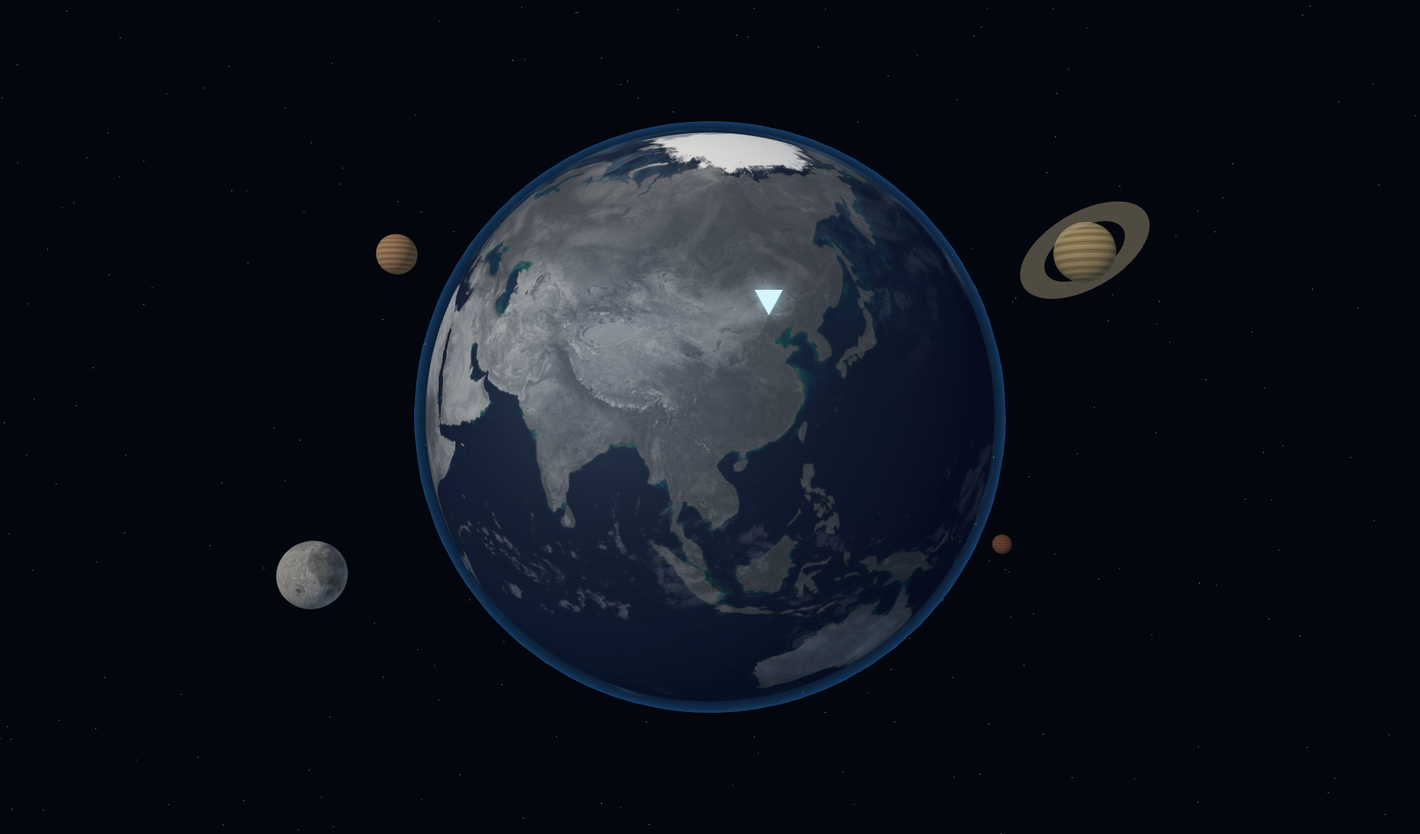
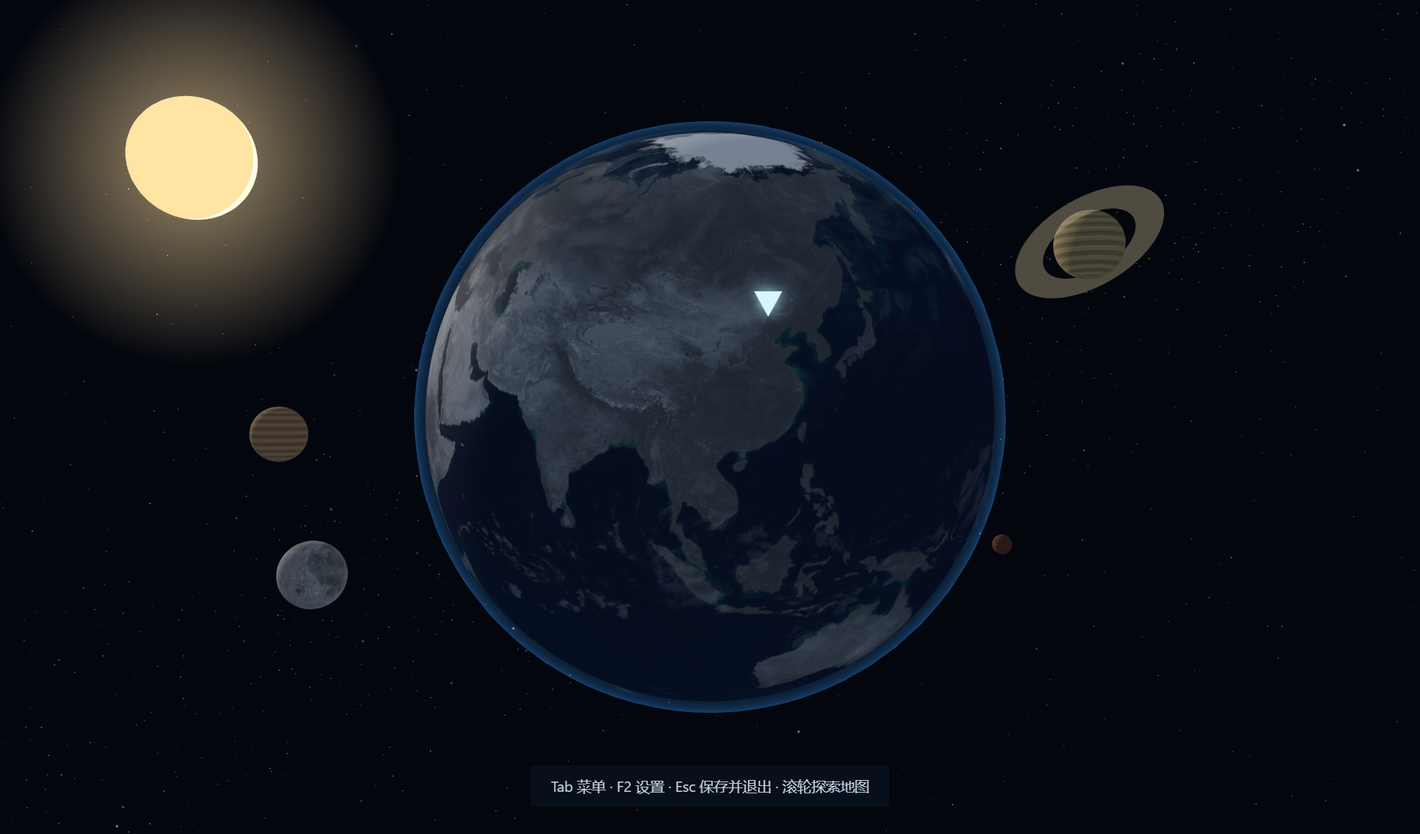
Add planetary navigation and unrestricted geographic wheel exploration

diff --git a/globe.js b/globe.js
@@ -2,24 +2,42 @@ import * as THREE from './vendor/three.module.js';
 const $=id=>document.getElementById(id),geo=window.ATLAS_GEO.provinces,ui=window.earthUI;
 const reduced=matchMedia('(prefers-reduced-motion: reduce)');
 let renderer,scene,camera,earthGroup,earth,clouds,moon,material,baseImage,land,paused=false,active=true,flight=null,drag=null,units={},next=1,last=0,progressKey='';
+const bodies=[],look=new THREE.Vector3();let travel=null,focused='earth',starMaterial,queuedFlight=null,zoomGoal=null,zoomPlace=null,openingMap=false;
+const titles={earth:'地球',sun:'太阳',moon:'月球',mars:'火星',jupiter:'木星 · 探索菜单',saturn:'土星 · 设置'};
+function glow(color,size){const c=document.createElement('canvas');c.width=c.height=128;const x=c.getContext('2d'),g=x.createRadialGradient(64,64,0,64,64,64);g.addColorStop(0,'#fff');g.addColorStop(.08,color);g.addColorStop(.3,color+'70');g.addColorStop(1,color+'00');x.fillStyle=g;x.fillRect(0,0,128,128);const s=new THREE.Sprite(new THREE.SpriteMaterial({map:new THREE.CanvasTexture(c),transparent:true,depthWrite:false,blending:THREE.AdditiveBlending}));s.scale.setScalar(size);return s;}
+function register(mesh,id,size){mesh.userData={id,size};bodies.push(mesh);return mesh;}
+function panel(id){$('spaceMenu').hidden=id!=='jupiter';$('settingsPanel').hidden=id!=='saturn';$('planetInfo').hidden=!['sun','moon','mars'].includes(id);if(!$('planetInfo').hidden){$('planetTitle').textContent=titles[id];$('planetDescription').textContent={sun:'太阳是恒星，是地球光照的来源。这里为了同屏观看缩小了距离与尺寸，并非真实比例。',moon:'月球是地球的天然卫星。返回地球，继续探索你的学习地图。',mars:'火星是一颗岩石行星。这里暂未安排课程，后续再来拓展。'}[id];}}
+async function focusPlanet(id){if(!camera)return;queuedFlight=null;zoomGoal=null;await window.flushAtlas();if(document.body.dataset.view!=='space')await ui.view('spaceView');$('infoDialog').close();flight=null;document.body.dataset.flying='false';$('skipFlight').hidden=true;$('cloudVeil').style.opacity=0;panel(null);const b=id==='earth'?earth:bodies.find(b=>b.userData.id===id);if(!b)return;focused=id;document.body.dataset.planet=id;const destination=id==='earth'?new THREE.Vector3():b.position.clone();const distance=id==='earth'?8.3:b.userData.size*5.8;travel={start:performance.now(),from:camera.position.clone(),to:destination.clone().add(new THREE.Vector3(0,0,distance)),lookFrom:look.clone(),lookTo:destination,id};if(reduced.matches){camera.position.copy(travel.to);look.copy(destination);camera.lookAt(look);travel=null;panel(id);}}
+window.addEventListener('atlas-planet',e=>focusPlanet(e.detail).catch(e=>ui.notify(e.message)));
 const radius=2,ray=new THREE.Raycaster(),pointer=new THREE.Vector2(),target=new THREE.Vector3(0,0,1);
 const surface=([lon,lat],r=radius)=>{const a=lat*Math.PI/180,b=lon*Math.PI/180;return new THREE.Vector3(r*Math.cos(a)*Math.cos(b),r*Math.sin(a),-r*Math.cos(a)*Math.sin(b));};
 const alignment=([lon,lat])=>new THREE.Quaternion().setFromEuler(new THREE.Euler(lat*Math.PI/180,(-90-lon)*Math.PI/180,0,'XYZ'));
 function outline(ctx,polys,w,h){ctx.beginPath();for(const p of polys)for(const ring of p){ring.forEach(([lon,lat],i)=>{const x=(lon+180)/360*w,y=(90-lat)/180*h;i?ctx.lineTo(x,y):ctx.moveTo(x,y);});ctx.closePath();}}
 function colorTexture(){if(!baseImage||!land||!material)return;const key=Object.entries(units).filter(([,u])=>u.status==='done').map(([id])=>id).join(',');if(key===progressKey&&material.map)return;progressKey=key;const c=document.createElement('canvas');c.width=2048;c.height=1024;const ctx=c.getContext('2d');ctx.drawImage(baseImage,0,0,c.width,c.height);ctx.save();for(const f of land.features){const polys=f.geometry.type==='Polygon'?[f.geometry.coordinates]:f.geometry.coordinates;outline(ctx,polys,c.width,c.height);ctx.save();ctx.clip('evenodd');ctx.filter='grayscale(1) brightness(0.90)';ctx.drawImage(baseImage,0,0,c.width,c.height);ctx.filter='none';ctx.fillStyle='rgba(112,126,144,.48)';ctx.fillRect(0,0,c.width,c.height);ctx.restore();}ctx.restore();for(const p of geo){if(units[p.id]?.status!=='done')continue;ctx.save();outline(ctx,p.polygons,c.width,c.height);ctx.clip('evenodd');ctx.drawImage(baseImage,0,0,c.width,c.height);ctx.restore();}const texture=new THREE.CanvasTexture(c);texture.colorSpace=THREE.SRGBColorSpace;texture.anisotropy=Math.min(8,renderer.capabilities.getMaxAnisotropy());material.map?.dispose();material.map=texture;material.needsUpdate=true;}
-function starField(){let seed=731;const rand=()=>{seed=(seed*1664525+1013904223)>>>0;return seed/4294967296;};const points=[],colors=[];for(let i=0;i<3800;i++){const z=rand()*2-1,a=rand()*Math.PI*2,r=70+rand()*40,s=Math.sqrt(1-z*z);points.push(r*s*Math.cos(a),r*z,r*s*Math.sin(a));const b=.35+rand()*.65;colors.push(b,b*(.87+rand()*.13),b*(.8+rand()*.2));}const g=new THREE.BufferGeometry();g.setAttribute('position',new THREE.Float32BufferAttribute(points,3));g.setAttribute('color',new THREE.Float32BufferAttribute(colors,3));scene.add(new THREE.Points(g,new THREE.PointsMaterial({size:.105,vertexColors:true,sizeAttenuation:true,transparent:true,opacity:.9})));}
+function starField(){let seed=731;const rand=()=>{seed=(seed*1664525+1013904223)>>>0;return seed/4294967296;};const points=[],colors=[],sizes=[],phases=[];for(let i=0;i<11000;i++){const a=rand()*Math.PI*2,z=i<6500?rand()*2-1:(rand()+rand()+rand()-1.5)*.19,r=75+rand()*35,s=Math.sqrt(1-z*z);const v=new THREE.Vector3(r*s*Math.cos(a),r*z,r*s*Math.sin(a));v.applyAxisAngle(new THREE.Vector3(0,0,1),.48);points.push(v.x,v.y,v.z);const b=.3+rand()*.7;colors.push(b,b*(.8+rand()*.2),b*(.75+rand()*.25));sizes.push(rand()<.025?5:1.3+rand()*1.6);phases.push(rand()*6.28);}const g=new THREE.BufferGeometry();g.setAttribute('position',new THREE.Float32BufferAttribute(points,3));g.setAttribute('color',new THREE.Float32BufferAttribute(colors,3));g.setAttribute('size',new THREE.Float32BufferAttribute(sizes,1));g.setAttribute('phase',new THREE.Float32BufferAttribute(phases,1));starMaterial=new THREE.ShaderMaterial({uniforms:{time:{value:0}},transparent:true,depthWrite:false,blending:THREE.AdditiveBlending,vertexColors:true,vertexShader:'attribute float size; attribute float phase; varying vec3 tint; varying float pulse; uniform float time; void main(){tint=color; pulse=.8+.2*sin(time*.5+phase); gl_Position=projectionMatrix*modelViewMatrix*vec4(position,1.);gl_PointSize=size;}',fragmentShader:'varying vec3 tint; varying float pulse; void main(){float d=length(gl_PointCoord-.5)*2.;float a=pow(max(0.,1.-d),1.2);gl_FragColor=vec4(tint,a*pulse);}'});scene.add(new THREE.Points(g,starMaterial));}
 function planetTexture(type){const c=document.createElement('canvas');c.width=512;c.height=256;const ctx=c.getContext('2d');for(let y=0;y<256;y++){const v=Math.sin(y*.27)+.5*Math.sin(y*.85);ctx.fillStyle=type==='mars'?`hsl(15,35%,${29+v*5}%)`:`hsl(${type==='saturn'?40:28},${type==='saturn'?24:29}%,${48+v*8}%)`;ctx.fillRect(0,y,512,1);}const t=new THREE.CanvasTexture(c);t.colorSpace=THREE.SRGBColorSpace;return t;}
-function addPlanet(type,size,pos){const m=new THREE.Mesh(new THREE.SphereGeometry(size,40,24),new THREE.MeshStandardMaterial({map:planetTexture(type),roughness:1}));m.position.set(...pos);scene.add(m);if(type==='saturn'){const ring=new THREE.Mesh(new THREE.RingGeometry(size*1.4,size*2.25,96),new THREE.MeshBasicMaterial({color:0xa99c7e,transparent:true,opacity:.46,side:THREE.DoubleSide}));ring.rotation.set(.95,.25,-.4);m.add(ring);}return m;}
+function addPlanet(type,size,pos){const m=register(new THREE.Mesh(new THREE.SphereGeometry(size,48,32),new THREE.MeshStandardMaterial({map:planetTexture(type),roughness:1})),type,size);m.position.set(...pos);scene.add(m);if(type==='saturn'){const ring=new THREE.Mesh(new THREE.RingGeometry(size*1.4,size*2.25,96),new THREE.MeshBasicMaterial({color:0xa99c7e,transparent:true,opacity:.46,side:THREE.DoubleSide}));ring.rotation.set(.95,.25,-.4);m.add(ring);}return m;}
 function atmosphere(){const m=new THREE.ShaderMaterial({transparent:true,side:THREE.BackSide,blending:THREE.AdditiveBlending,depthWrite:false,vertexShader:'varying vec3 n; varying vec3 v; void main(){ vec4 p=modelViewMatrix*vec4(position,1.0); n=normalize(normalMatrix*normal); v=normalize(-p.xyz); gl_Position=projectionMatrix*p; }',fragmentShader:'varying vec3 n; varying vec3 v; void main(){float rim=pow(max(0.0,1.0-abs(dot(n,v))),3.4);gl_FragColor=vec4(0.15,0.44,0.72,rim*0.62); }'});earthGroup.add(new THREE.Mesh(new THREE.SphereGeometry(2.075,64,48),m));}
 function pointInRing(x,y,ring){let inside=false;for(let i=0,j=ring.length-1;i<ring.length;j=i++){const [xi,yi]=ring[i],[xj,yj]=ring[j];if(((yi>y)!==(yj>y))&&x<(xj-xi)*(y-yi)/(yj-yi)+xi)inside=!inside;}return inside;}
-function clickWorld(e){if(flight)return;const bounds=renderer.domElement.getBoundingClientRect();pointer.set((e.clientX-bounds.left)/bounds.width*2-1,-(e.clientY-bounds.top)/bounds.height*2+1);ray.setFromCamera(pointer,camera);const hit=ray.intersectObject(earth)[0];if(!hit)return;const local=earthGroup.worldToLocal(hit.point.clone()).normalize();const lon=Math.atan2(-local.z,local.x)*180/Math.PI,lat=Math.asin(local.y)*180/Math.PI;const province=geo.find(p=>p.polygons.some(poly=>pointInRing(lon,lat,poly[0])));if(province)startFlight(province.id);else ui.notify('这片区域尚未开发，后续再来拓展。');}
-function setFlightLabel(stage,p){const labels=['地球','穿过云层','亚洲','中国',p.name];$('flightPlace').textContent=labels[stage];$('flightTrail').textContent=['宇宙 / 每日任务','地球 / 大气层','地球 / 亚洲','亚洲 / 中国','亚洲 / 中国 / 单元 '+p.id][stage];document.body.dataset.flightStage=String(stage);}
-function startFlight(id){if(flight)return;if(id>34){ui.notify('中国地图之后的8个单元已预留，周边地图后续拓展。');return;}const p=geo[id-1];$('spaceMenu').hidden=true;if(reduced.matches){ui.showProvince(id).catch(ui.notify);return;}flight={id,start:performance.now(),q:earthGroup.quaternion.clone(),z:camera.position.z};document.body.dataset.flying='true';$('flightLabel').hidden=false;$('skipFlight').hidden=false;$('taskPin').hidden=true;setFlightLabel(0,p);}
+function pick(e){const bounds=renderer.domElement.getBoundingClientRect();pointer.set((e.clientX-bounds.left)/bounds.width*2-1,-(e.clientY-bounds.top)/bounds.height*2+1);ray.setFromCamera(pointer,camera);return ray.intersectObjects([earth,...bodies],false)[0];}
+function provinceAt(hit){if(!hit||hit.object!==earth)return null;const local=earthGroup.worldToLocal(hit.point.clone()).normalize(),lon=Math.atan2(-local.z,local.x)*180/Math.PI,lat=Math.asin(local.y)*180/Math.PI;return geo.find(p=>p.polygons.some(poly=>pointInRing(lon,lat,poly[0])));}
+function clickWorld(e){if(flight||travel)return;const hit=pick(e);if(!hit)return;if(hit.object!==earth){hit.object.scale.setScalar(1.08);setTimeout(()=>hit.object.scale.setScalar(1),180);focusPlanet(hit.object.userData.id).catch(e=>ui.notify(e.message));return;}if(focused!=='earth'){focusPlanet('earth');return;}const v=earthGroup.worldToLocal(hit.point.clone()).normalize();window.atlasExplorer.open(Math.atan2(-v.z,v.x)*180/Math.PI,Math.asin(v.y)*180/Math.PI).catch(e=>ui.notify(e.message));}
+function setFlightLabel(stage){document.body.dataset.flightStage=String(stage);}
+function startFlight(id){if(flight||travel)return;if(id>34){ui.notify('周边地图后续拓展。');return;}panel(null);if(reduced.matches){ui.showProvince(id).catch(ui.notify);return;}focused='earth';flight={id,start:performance.now(),q:earthGroup.quaternion.clone(),z:camera.position.z};look.set(0,0,0);camera.position.x=camera.position.y=0;camera.lookAt(look);document.body.dataset.flying='true';$('flightLabel').hidden=true;$('skipFlight').hidden=false;$('taskPin').hidden=true;}
 function finishFlight(){if(!flight)return;const id=flight.id;flight=null;document.body.dataset.flying='false';$('cloudVeil').style.opacity=0;$('flightLabel').hidden=true;$('skipFlight').hidden=true;ui.showProvince(id).catch(e=>ui.notify(e.message));}
-function animate(now){requestAnimationFrame(animate);if(!active||document.hidden)return;const dt=Math.min(.05,(now-last)/1000||0);last=now;if(flight){const elapsed=(now-flight.start)/1450,stage=Math.min(4,Math.floor(elapsed)),fraction=elapsed-stage,t=fraction*fraction*(3-2*fraction),p=geo[flight.id-1];const distances=[flight.z,5.0,3.9,3.0,2.5,2.16];camera.position.z=THREE.MathUtils.lerp(distances[stage],distances[stage+1],t);const places=[[105,30],[105,30],[100,35],[104,35],p.center];earthGroup.quaternion.slerpQuaternions(stage===0?flight.q:alignment(places[stage-1]),alignment(places[stage]),t);setFlightLabel(stage,p);$('cloudVeil').style.opacity=stage===1?String(Math.sin(fraction*Math.PI)*.95):'0';clouds.material.opacity=stage>=2?.10:.32;if(elapsed>=5)finishFlight();}else if(!paused&&!drag&&!reduced.matches){earthGroup.rotateOnWorldAxis(new THREE.Vector3(0,1,0),dt*.028);clouds.rotation.y+=dt*.006;}const id=Math.min(next,34),p=geo[id-1],world=surface(p.center,2.05).applyQuaternion(earthGroup.quaternion);const projected=world.clone().project(camera);const facing=world.clone().normalize().dot(camera.position.clone().sub(world).normalize())>.1;$('taskPin').hidden=!!flight||!facing||next>34;if(!$('taskPin').hidden){$('taskPin').style.left=(projected.x*.5+.5)*innerWidth+'px';$('taskPin').style.top=(-projected.y*.5+.5)*innerHeight+'px';}renderer.render(scene,camera);}
+function animate(now){requestAnimationFrame(animate);if(!active||document.hidden)return;const dt=Math.min(.05,(now-last)/1000||0);last=now;if(starMaterial)starMaterial.uniforms.time.value=reduced.matches?0:now/1000;
+ if(travel){const t=Math.min(1,(now-travel.start)/1400),s=t*t*(3-2*t);camera.position.lerpVectors(travel.from,travel.to,s);look.lerpVectors(travel.lookFrom,travel.lookTo,s);camera.lookAt(look);if(t===1){const id=travel.id;travel=null;panel(id);if(queuedFlight){const unit=queuedFlight;queuedFlight=null;startFlight(unit);}}}
+ else if(flight){const t=Math.min(1,(now-flight.start)/6400),s=t*t*(3-2*t),p=geo[flight.id-1];camera.position.z=flight.z*Math.pow(2.16/flight.z,s);const broad=alignment([104,34]),close=alignment(p.center);const q=broad.clone().slerp(close,s*s);earthGroup.quaternion.slerpQuaternions(flight.q,q,Math.min(1,s*1.8));setFlightLabel(Math.min(4,Math.floor(t*5)));$('cloudVeil').style.opacity=String(Math.exp(-Math.pow((t-.73)/.08,2))*.86);clouds.material.opacity=.32*(1-s)+.08*s;if(t===1)finishFlight();}
+ else if(focused==='earth'&&zoomGoal===null&&!paused&&!drag&&!reduced.matches){earthGroup.rotateOnWorldAxis(new THREE.Vector3(0,1,0),dt*.028);clouds.rotation.y+=dt*.006;}
+ if(!flight&&!travel&&zoomGoal!==null){camera.position.z=THREE.MathUtils.lerp(camera.position.z,zoomGoal,reduced.matches?1:1-Math.exp(-dt*13));if(Math.abs(camera.position.z-zoomGoal)<.01)camera.position.z=zoomGoal;document.body.dataset.zoomLevel=camera.position.z>6?'universe':camera.position.z>3.7?'earth':'asia';if(camera.position.z<=2.85&&zoomGoal<2.85&&!openingMap){openingMap=true;zoomGoal=null;const place=zoomPlace||geo[Math.min(next,34)-1].center;window.atlasExplorer.open(...place).catch(e=>ui.notify(e.message)).finally(()=>openingMap=false);}}
+ const p=geo[Math.min(next,34)-1],world=surface(p.center,2.05).applyQuaternion(earthGroup.quaternion),projected=world.clone().project(camera),facing=world.clone().normalize().dot(camera.position.clone().sub(world).normalize())>.1;
+ $('taskPin').hidden=!!flight||!!travel||focused!=='earth'||!facing||next>34||camera.position.z<4;
+ if(!$('taskPin').hidden){$('taskPin').style.left=(projected.x*.5+.5)*innerWidth+'px';$('taskPin').style.top=(-projected.y*.5+.5)*innerHeight+'px';}
+ renderer.render(scene,camera);}
 function resize(){renderer.setSize(innerWidth,innerHeight);camera.aspect=innerWidth/innerHeight;camera.updateProjectionMatrix();}
-async function init(){scene=new THREE.Scene();camera=new THREE.PerspectiveCamera(40,innerWidth/innerHeight,.01,200);camera.position.set(0,0,8.3);renderer=new THREE.WebGLRenderer({antialias:true,alpha:false,powerPreference:'low-power'});renderer.setPixelRatio(Math.min(devicePixelRatio,1.6));renderer.setClearColor(0x03060d);$('universe').append(renderer.domElement);resize();scene.add(new THREE.AmbientLight(0xb7c9e2,1.2));const sun=new THREE.DirectionalLight(0xfff4df,2.1);sun.position.set(-6,4,8);scene.add(sun);starField();earthGroup=new THREE.Group();scene.add(earthGroup);earthGroup.quaternion.copy(alignment([105,27]));material=new THREE.MeshPhongMaterial({color:0xffffff,shininess:10,specular:0x243246});earth=new THREE.Mesh(new THREE.SphereGeometry(2,128,80),material);earthGroup.add(earth);const loader=new THREE.TextureLoader();const [day,cloud,moonTexture,landData]=await Promise.all([loader.loadAsync('assets/earth.jpg'),loader.loadAsync('assets/clouds.png'),loader.loadAsync('assets/moon.jpg'),fetch('assets/land.geojson').then(r=>r.json())]);baseImage=day.image;land=landData;colorTexture();day.dispose();cloud.colorSpace=THREE.SRGBColorSpace;clouds=new THREE.Mesh(new THREE.SphereGeometry(2.025,96,64),new THREE.MeshPhongMaterial({map:cloud,transparent:true,opacity:.32,depthWrite:false}));earthGroup.add(clouds);atmosphere();moonTexture.colorSpace=THREE.SRGBColorSpace;moon=new THREE.Mesh(new THREE.SphereGeometry(.29,40,24),new THREE.MeshStandardMaterial({map:moonTexture,roughness:1}));moon.position.set(-3.4,-1.35,-1.5);scene.add(moon);addPlanet('saturn',.40,[5,2.2,-7]);addPlanet('jupiter',.32,[-5,2.6,-10]);addPlanet('mars',.13,[3.9,-1.7,-7]);$('sceneLoading').hidden=true;window.__earthReady=true;window.addEventListener('resize',resize);renderer.domElement.onpointerdown=e=>{if(flight)return;drag={x:e.clientX,y:e.clientY,lastX:e.clientX,lastY:e.clientY};renderer.domElement.setPointerCapture(e.pointerId);};renderer.domElement.onpointermove=e=>{if(!drag)return;earthGroup.rotateOnWorldAxis(new THREE.Vector3(0,1,0),(e.clientX-drag.lastX)*.005);earthGroup.rotateOnWorldAxis(new THREE.Vector3(1,0,0),(e.clientY-drag.lastY)*.005);drag.lastX=e.clientX;drag.lastY=e.clientY;};renderer.domElement.onpointerup=e=>{if(!drag)return;const moved=Math.hypot(e.clientX-drag.x,e.clientY-drag.y);drag=null;if(moved<5)clickWorld(e);};renderer.domElement.onpointercancel=()=>drag=null;renderer.domElement.addEventListener('wheel',e=>{e.preventDefault();if(!flight)camera.position.z=Math.max(4.4,Math.min(12,camera.position.z+e.deltaY*.004));},{passive:false});requestAnimationFrame(animate);ui.syncWorld();}
+async function init(){scene=new THREE.Scene();camera=new THREE.PerspectiveCamera(40,innerWidth/innerHeight,.01,200);camera.position.set(0,0,8.3);renderer=new THREE.WebGLRenderer({antialias:true,alpha:false,powerPreference:'low-power'});renderer.setPixelRatio(Math.min(devicePixelRatio,1.6));renderer.setClearColor(0x03060d);$('universe').append(renderer.domElement);resize();scene.add(new THREE.AmbientLight(0xb7c9e2,1.2));const sun=new THREE.DirectionalLight(0xfff4df,2.1);sun.position.set(-6,3,-5);scene.add(sun);const sunBody=register(new THREE.Mesh(new THREE.SphereGeometry(.7,64,48),new THREE.MeshBasicMaterial({color:0xffe4a3})),'sun',.7);sunBody.position.copy(sun.position);sunBody.add(glow('#ffb34f',4.8));scene.add(sunBody);starField();earthGroup=new THREE.Group();scene.add(earthGroup);earthGroup.quaternion.copy(alignment([105,27]));material=new THREE.MeshPhongMaterial({color:0xffffff,shininess:10,specular:0x243246});earth=new THREE.Mesh(new THREE.SphereGeometry(2,128,80),material);earthGroup.add(earth);const loader=new THREE.TextureLoader();const [day,cloud,moonTexture,landData]=await Promise.all([loader.loadAsync('assets/earth.jpg'),loader.loadAsync('assets/clouds.png'),loader.loadAsync('assets/moon.jpg'),fetch('assets/land.geojson').then(r=>r.json())]);baseImage=day.image;land=landData;colorTexture();day.dispose();cloud.colorSpace=THREE.SRGBColorSpace;clouds=new THREE.Mesh(new THREE.SphereGeometry(2.025,96,64),new THREE.MeshPhongMaterial({map:cloud,transparent:true,opacity:.32,depthWrite:false}));earthGroup.add(clouds);atmosphere();moonTexture.colorSpace=THREE.SRGBColorSpace;moon=new THREE.Mesh(new THREE.SphereGeometry(.29,40,24),new THREE.MeshStandardMaterial({map:moonTexture,roughness:1}));moon.position.set(-3.4,-1.35,-1.5);scene.add(moon);register(moon,'moon',.29);addPlanet('saturn',.40,[4.4,2,-5]);addPlanet('jupiter',.32,[-5,-.2,-5]);addPlanet('mars',.13,[3.9,-1.7,-7]);$('sceneLoading').hidden=true;window.__earthReady=true;window.addEventListener('resize',resize);renderer.domElement.onpointerdown=e=>{if(flight||travel)return;drag={x:e.clientX,y:e.clientY,lastX:e.clientX,lastY:e.clientY};renderer.domElement.setPointerCapture(e.pointerId);};renderer.domElement.onpointermove=e=>{if(!drag){const hit=pick(e);renderer.domElement.style.cursor=hit?'pointer':'grab';$('planetHover').hidden=!hit||hit.object===earth;if(hit&&hit.object!==earth){$('planetHover').textContent=titles[hit.object.userData.id];$('planetHover').style.left=e.clientX+16+'px';$('planetHover').style.top=e.clientY+16+'px';}return;}if(focused!=='earth'||travel)return;earthGroup.rotateOnWorldAxis(new THREE.Vector3(0,1,0),(e.clientX-drag.lastX)*.005);earthGroup.rotateOnWorldAxis(new THREE.Vector3(1,0,0),(e.clientY-drag.lastY)*.005);drag.lastX=e.clientX;drag.lastY=e.clientY;};renderer.domElement.onpointerup=e=>{if(!drag)return;const moved=Math.hypot(e.clientX-drag.x,e.clientY-drag.y);drag=null;if(moved<5)clickWorld(e);};renderer.domElement.onpointercancel=()=>drag=null;$('spaceView').addEventListener('wheel',e=>{if(e.target.closest('.planet-panel,#spaceMenu,#sceneError'))return;e.preventDefault();if(flight||travel||openingMap)return;if(focused!=='earth'){if(e.deltaY>0)focusPlanet('earth');return;}const hit=pick(e);if(hit?.object===earth){const v=earthGroup.worldToLocal(hit.point.clone()).normalize();zoomPlace=[Math.atan2(-v.z,v.x)*180/Math.PI,Math.asin(v.y)*180/Math.PI];}const delta=e.deltaY*(e.deltaMode===1?16:e.deltaMode===2?innerHeight:1);zoomGoal=Math.max(2.3,Math.min(14,(zoomGoal??camera.position.z)*Math.exp(delta*.0022)));},{passive:false});requestAnimationFrame(animate);ui.syncWorld();}
 window.addEventListener('atlas-progress',e=>{units=e.detail.units;next=e.detail.next;colorTexture();const p=geo[Math.min(next,34)-1];$('taskLabel').innerHTML='每日任务 / '+p.name+'<small>单元 '+next+' · 点击开始探索</small>';});
-window.addEventListener('atlas-view',e=>{active=e.detail==='spaceView';if(active&&earthGroup){camera.position.z=8.3;earthGroup.quaternion.copy(alignment(geo[Math.min(next,34)-1].center));clouds.material.opacity=.32;resize();}});
-$('taskPin').onclick=()=>startFlight(next);$('daily').onclick=()=>{if(!earthGroup)return;earthGroup.quaternion.copy(alignment(geo[Math.min(next,34)-1].center));startFlight(next);};$('pause').onclick=()=>{paused=!paused;$('pause').textContent=paused?'继续自转':'暂停自转';};$('skipFlight').onclick=finishFlight;
+window.addEventListener('atlas-view',e=>{active=e.detail==='spaceView';if(active&&earthGroup){travel=null;zoomGoal=null;openingMap=false;focused='earth';panel(null);look.set(0,0,0);camera.position.set(0,0,8.3);camera.lookAt(look);earthGroup.quaternion.copy(alignment(geo[Math.min(next,34)-1].center));clouds.material.opacity=.32;resize();}});
+$('taskPin').onclick=()=>startFlight(next);$('daily').onclick=async()=>{if(!earthGroup)return;await focusPlanet('earth');if(travel)queuedFlight=next;else startFlight(next);};$('pause').onclick=()=>{paused=!paused;$('pause').textContent=paused?'继续自转':'暂停自转';};$('skipFlight').onclick=finishFlight;
 init().catch(e=>{console.error(e);$('sceneLoading').hidden=true;$('sceneError').hidden=false;$('sceneError').querySelector('p').textContent='地球场景加载失败：'+e.message;ui?.notify('地球场景未能加载。仍可进入中国地图，学习记录不会被清除。');});
+$('settingsBack').onclick=() => focusPlanet('earth');$('menuBack').onclick=() => focusPlanet('earth');$('planetBack').onclick=() => focusPlanet('earth');$('openSettings').onclick=() => focusPlanet('saturn');$('exitApp').onclick=()=>window.atlas.close();window.atlasScene={focusPlanet,getState:()=>({focused,travel:!!travel,flight:!!flight,camera:camera?.position.toArray(),bodies:bodies.map(b=>b.userData.id)})};

diff --git a/map-explorer.js b/map-explorer.js
@@ -1,0 +1,57 @@
+(()=>{
+'use strict';
+const ui=window.earthUI,NS='http://www.w3.org/2000/svg',provinces=window.ATLAS_GEO.provinces;
+const main=document.createElement('main');main.id='exploreView';main.hidden=true;
+main.innerHTML='<header class="atlas-bar"><button id="geoBack">返回上一级</button><div><small id="geoCrumb"></small><h1 id="geoTitle"></h1></div><button id="geoHome">地球全景</button></header><div id="geoWrap"><svg id="geoMap" viewBox="0 0 1100 680"></svg></div><p id="geoHint">点击地域或向前滚动进入；向后滚动返回。灰色仅表示课程未完成，不限制浏览。</p>';
+document.body.append(main);
+const $=id=>document.getElementById(id),stack=[];let countries=[],loading=false,zoom=1,hover=null,gate=0,request=0,frame=0,box=[0,0,1100,680];
+const continents={'Asia':'亚洲','Europe':'欧洲','Africa':'非洲','North America':'北美洲','South America':'南美洲','Oceania':'大洋洲','Antarctica':'南极洲'};
+const polygons=f=>f.geometry.type==='Polygon'?[f.geometry.coordinates]:f.geometry.coordinates;
+function inside([x,y],ring){let b=false;for(let i=0,j=ring.length-1;i<ring.length;j=i++){const [a,c]=ring[i],[d,e]=ring[j];if((c>y)!==(e>y)&&x<(d-a)*(y-c)/(e-c)+a)b=!b;}return b;}
+const contains=(f,p)=>polygons(f).some(poly=>inside(p,poly[0])&&!poly.slice(1).some(r=>inside(p,r)));
+function feature(name,polys,extra={}){return {type:'Feature',properties:{name,...extra},geometry:{type:'MultiPolygon',coordinates:polys}};}
+const name=f=>f.properties.ADM0_A3==='CHN'?'中国':f.properties.name||f.properties.NAME_ZH||f.properties.shapeName||f.properties.ADMIN||'区域';
+function bounds(features){let x=180,y=90,X=-180,Y=-90;for(const f of features)for(const p of polygons(f))for(const r of p)for(const [a,b] of r){x=Math.min(x,a);X=Math.max(X,a);y=Math.min(y,b);Y=Math.max(Y,b);}return [x,y,X,Y];}
+function render(){const s=stack.at(-1);if(!s)return;cancelAnimationFrame(frame);zoom=1;hover=null;box=[0,0,1100,680];$('geoMap').setAttribute('viewBox',box.join(' '));$('geoMap').replaceChildren();$('geoTitle').textContent=s.title;$('geoCrumb').textContent='地球 / '+stack.map(x=>x.title).join(' / ');const [x,y,X,Y]=bounds(s.features),k=Math.min(980/Math.max(.01,X-x),560/Math.max(.01,Y-y));const project=([a,b])=>[550+(a-(x+X)/2)*k,340-(b-(y+Y)/2)*k];
+ for(const f of s.features){const path=document.createElementNS(NS,'path');path.setAttribute('d',polygons(f).map(p=>p.map(r=>r.map((v,i)=>(i?'L':'M')+project(v).join(',')).join(' ')+'Z').join(' ')).join(' '));path.setAttribute('fill-rule','evenodd');path.setAttribute('class','map-area');path.setAttribute('tabindex','0');path.setAttribute('aria-label',name(f));const title=document.createElementNS(NS,'title');title.textContent=name(f);path.append(title);path.onpointerenter=()=>{hover=f;$('geoHint').textContent=name(f)+' · 点击或滚轮放大进入；向后滚动返回';};path.onclick=()=>enter(f).catch(error);path.onkeydown=e=>{if(e.key==='Enter'){e.preventDefault();enter(f).catch(error);}};$('geoMap').append(path);
+ const b=bounds([f]),w=(b[2]-b[0])*k,h=(b[3]-b[1])*k;if(w>55&&h>24&&s.features.length<80){const label=document.createElementNS(NS,'text'),p=project([(b[0]+b[2])/2,(b[1]+b[3])/2]);label.setAttribute('x',p[0]);label.setAttribute('y',p[1]);label.setAttribute('class','map-label');label.textContent=name(f);$('geoMap').append(label);}
+ }
+ $('geoHint').textContent=s.level==='city'?'已到市／区层级。继续滚轮放大查看边界，向后缩小返回。':'点击地域或滚轮放大进入；向后缩小返回。灰色地区同样可以浏览。';
+}
+function error(e){loading=false;$('geoHint').textContent='此级地图数据暂时无法载入（不是学习限制）：'+e.message+'。可返回或稍后重试。';}
+async function push(s){stack.push(s);await ui.view('exploreView');render();}
+async function enter(f){if(loading)return;const s=stack.at(-1);if(!s||s.level==='city')return;
+ if(s.level==='continent'){const iso=f.properties.ADM0_A3==='CHN'?'CHN':f.properties.ISO_A3_EH||f.properties.ADM0_A3;if(iso==='CHN'){await push({level:'country',title:'中国',iso,features:provinces.map(p=>feature(p.name,p.polygons,{province:p}))});return;}
+ loading=true;const token=++request;$('geoHint').textContent='正在读取 '+name(f)+' 的省／州边界，首次需要联网，之后缓存到 D 盘…';try{const data=await window.atlas.boundaries({iso,level:'ADM1'});if(token!==request)return;await push({level:'country',title:name(f),iso,features:data.features});}finally{loading=false;}return;}
+ if(s.level==='country'){if(s.iso==='CHN'){const p=f.properties.province,features=p.cities.filter(c=>c.polygons.length).map(c=>feature(c.name,c.polygons));if(!features.length){ui.notify('此省当前数据未提供市区边界，保留省级浏览。');return;}await push({level:'province',title:p.name,iso:s.iso,features});return;}
+ loading=true;const token=++request;$('geoHint').textContent='正在读取市／区边界…';try{const data=await window.atlas.boundaries({iso:s.iso,level:'ADM2'});if(token!==request)return;const selected=data.features.filter(c=>polygons(c).some(p=>p[0].some(v=>contains(f,v))));if(!selected.length)throw Error('数据源没有可对应的市区边界');await push({level:'province',title:name(f),iso:s.iso,features:selected});}finally{loading=false;}return;}
+ await push({level:'city',title:name(f),iso:s.iso,features:[f]});
+}
+async function back(){request++;loading=false;if(stack.length>1){stack.pop();render();}else{stack.length=0;await ui.view('spaceView');}}
+async function open(lon,lat){await ready;const f=countries.find(f=>contains(f,[lon,lat]));if(!f){ui.notify('这里是海洋。点击陆地可以进入所属洲。');return;}request++;stack.length=0;const c=f.properties.CONTINENT;await push({level:'continent',title:continents[c]||c,features:countries.filter(x=>x.properties.CONTINENT===c)});}
+const ready=fetch('assets/countries.geojson').then(r=>{if(!r.ok)throw Error('世界地图未安装');return r.json();}).then(d=>countries=d.features);
+ready.catch(error);$('geoBack').onclick=()=>back().catch(error);$('geoHome').onclick=()=>{request++;loading=false;stack.length=0;ui.view('spaceView').catch(error);};
+ function animateBox(){const svg=$('geoMap'),v=svg.viewBox.baseVal,values=[v.x,v.y,v.width,v.height].map((n,i)=>n+(box[i]-n)*.3);svg.setAttribute('viewBox',values.join(' '));if(values.some((n,i)=>Math.abs(n-box[i])>.1))frame=requestAnimationFrame(animateBox);else svg.setAttribute('viewBox',box.join(' '));}
+ $('geoWrap').addEventListener('wheel',e=>{
+  e.preventDefault();if(loading||performance.now()<gate)return;const s=stack.at(-1);if(!s)return;
+  const svg=$('geoMap'),p=new DOMPoint(e.clientX,e.clientY).matrixTransform(svg.getScreenCTM().inverse()),paths=[...svg.querySelectorAll('path')];
+  const hit=paths.findIndex(path=>path.isPointInFill(p));const chosen=hit>=0?s.features[hit]:hover;
+  const old=zoom,delta=e.deltaY*(e.deltaMode===1?16:e.deltaMode===2?innerHeight:1);zoom=Math.max(.65,Math.min(5,zoom*Math.exp(-delta*.003)));
+  const ratio=old/zoom;box=[p.x-(p.x-box[0])*ratio,p.y-(p.y-box[1])*ratio,1100/zoom,680/zoom];cancelAnimationFrame(frame);frame=requestAnimationFrame(animateBox);
+  if(zoom<.78){gate=performance.now()+450;back().catch(error);}
+  else if(zoom>1.6&&s.level!=='city'){
+   if(!chosen){$('geoHint').textContent='把鼠标移到想深入的陆地区域，再向前滚动。';return;}
+   gate=performance.now()+450;enter(chosen).catch(error);
+  }
+ },{passive:false});
+ async function openChina(provinceId){await open(105,35);await enter(countries.find(f=>f.properties.ADM0_A3==='CHN'));if(provinceId){const f=stack.at(-1).features.find(f=>f.properties.province.id===provinceId);if(f)await enter(f);}}
+ let legacyDelta=0;
+ $('flatMapWrap').addEventListener('wheel',e=>{
+  e.preventDefault();if(loading||performance.now()<gate)return;legacyDelta+=e.deltaY*(e.deltaMode===1?16:1);if(Math.abs(legacyDelta)<100)return;
+  const inward=legacyDelta<0;legacyDelta=0;gate=performance.now()+500;const context=ui.mapContext(),target=e.target.closest('[data-province]')?.dataset.province;
+  if(context.province){openChina(inward?context.province:null).catch(error);}
+  else if(inward){openChina(Number(target)||Math.min(ui.nextId(),34)).catch(error);}
+  else{open(105,35).catch(error);}
+ },{passive:false});
+ window.atlasExplorer={open,openChina,back,state:()=>({level:stack.at(-1)?.level,title:stack.at(-1)?.title,count:stack.at(-1)?.features.length,zoom})};
+})();

diff --git a/earth.html b/earth.html
@@ -1,9 +1,10 @@
 <!doctype html>
 <html lang="zh-CN" data-theme="dark"><head><meta charset="UTF-8"><meta name="viewport" content="width=device-width,initial-scale=1"><meta http-equiv="Content-Security-Policy" content="default-src 'self'; script-src 'self'; style-src 'self' 'unsafe-inline'; img-src 'self' data:; connect-src 'self'; object-src 'none'"><title>Python世界地图</title><link rel="stylesheet" href="style.css"><link rel="stylesheet" href="earth.css"></head>
 <body data-view="space">
-<main id="spaceView" aria-label="地球探索"><div id="universe"></div><div id="sceneLoading" role="status">正在展开你的世界…</div><div class="space-brand">PYTHON / EARTH<span>从中国开始，逐步探索</span></div><button id="menuToggle" class="space-menu">探索菜单</button><div id="spaceMenu" hidden><button id="daily">定位每日任务</button><button id="china">查看中国地图</button><button id="routeTab">42个学习单元</button><button id="pause">暂停自转</button><button id="backup">备份学习记录</button><button id="about">关于宇宙与地图</button></div><button id="taskPin" class="task-pin" hidden><span class="pin-arrow">▼</span><span id="taskLabel"></span></button><div class="space-caption"><span id="journeyCount">0 / 42 区域已开发</span><span>拖动地球旋转 · 滚轮靠近</span></div><div id="flightLabel" hidden aria-live="polite"><small id="flightTrail"></small><strong id="flightPlace"></strong></div><button id="skipFlight" hidden>跳过过场</button><div id="cloudVeil"></div><div id="sceneError" hidden><p>当前设备无法显示地球。</p><button id="fallbackMap">进入中国地图</button></div></main>
+<main id="spaceView" aria-label="地球探索"><div id="universe"></div><div id="sceneLoading" role="status">正在展开你的世界…</div><div class="space-brand">PYTHON / EARTH<span>从中国开始，逐步探索</span></div><button id="menuToggle" class="space-menu">探索菜单</button><div id="spaceMenu" class="planet-panel" hidden><h1>木星 · 探索菜单</h1><p>选择下一站</p><button id="menuBack">返回地球 · Home</button><button id="openSettings">前往土星设置 · F2</button><button id="daily">定位每日任务</button><button id="china">查看中国地图</button><button id="routeTab">42个学习单元</button><button id="pause">暂停自转</button><button id="backup">备份学习记录</button><button id="about">关于宇宙与地图</button><button id="exitApp">保存并退出 · Esc</button></div><button id="taskPin" class="task-pin" hidden><span class="pin-arrow">▼</span><span id="taskLabel"></span></button><div class="space-caption"><span id="journeyCount">0 / 42 区域已开发</span><span>拖动地球旋转 · 滚轮靠近</span></div><div id="flightLabel" hidden aria-live="polite"><small id="flightTrail"></small><strong id="flightPlace"></strong></div><button id="skipFlight" hidden>跳过过场</button><div id="cloudVeil"></div><div id="sceneError" hidden><p>当前设备无法显示地球。</p><button id="fallbackMap">进入中国地图</button></div></main>
+<section id="settingsPanel" class="planet-panel" hidden><h1>土星 · 设置与操作</h1><p>星球可以点击，镜头会聚焦到选中的星球。</p><table><tr><th>按键／操作</th><th>作用</th></tr><tr><td>Esc</td><td>保存后退出应用</td></tr><tr><td>Tab</td><td>前往木星菜单（文字编辑时保留编辑行为）</td></tr><tr><td>F2</td><td>前往土星设置</td></tr><tr><td>Home</td><td>返回地球全景（编辑时保留光标操作）</td></tr><tr><td>滚轮向前／向后</td><td>深入地域／返回上一级全貌</td></tr><tr><td>鼠标拖动</td><td>旋转地球</td></tr><tr><td>Ctrl+Enter</td><td>代码区运行 Python</td></tr><tr><td>Ctrl+S</td><td>保存练习</td></tr><tr><td>代码区 Tab</td><td>缩进四个空格</td></tr><tr><td>Alt+F4</td><td>保存后关闭窗口</td></tr></table><button id="settingsBack">返回地球 · Home</button></section><section id="planetInfo" class="planet-panel" hidden><h1 id="planetTitle"></h1><p id="planetDescription"></p><button id="planetBack">返回地球</button></section><div id="planetHover" hidden></div><div id="welcomeKeys">Tab 菜单 · F2 设置 · Esc 保存并退出 · 滚轮探索地图</div>
 <main id="atlasView" hidden><header class="atlas-bar"><button id="backSpace">返回地球</button><div><small id="mapCrumb">亚洲 / 中国</small><h1 id="mapTitle">中国</h1></div><button id="upMap" hidden>返回中国</button></header><div id="flatMapWrap"><svg id="flatMap" viewBox="0 0 1100 680" aria-label="区域学习地图"></svg></div><p id="mapHint"></p></main>
 <main id="routeView" hidden><header class="atlas-bar"><button id="routeBack">返回地球</button><div><h1>42个单元，一步一步探索</h1><p>前34站在中国，其余8站留给周边地图。</p></div></header><div id="routeList"></div></main>
 <main id="lessonView" hidden><header class="lesson-bar"><button id="backMap">返回省份</button><div><span id="lessonRegion"></span><strong id="lessonTitle"></strong></div><span id="saved" role="status">已读取</span><button id="finishPart" class="primary">这部分学完了</button></header><nav id="cityTabs"></nav><div class="lesson-layout"><article id="lessonArticle"></article><section class="workbench"><div class="workbench-head"><h2>我的练习</h2><div><button id="exportCode">导出草稿</button><button id="run" class="primary">运行代码</button></div></div><label for="code">Python代码</label><textarea id="code" spellcheck="false"></textarea><p class="helper">Ctrl+Enter运行，Tab缩进。本机执行自己的练习代码。</p><div class="output-head"><h3>运行结果</h3><button id="clearOutput">清空显示</button></div><pre id="output" role="log">还没有运行代码。</pre><div id="plots"></div><label for="answer">练习答案与思路</label><textarea id="answer"></textarea><label for="notes">我的笔记</label><textarea id="notes"></textarea><p class="helper">停笔后自动保存，切换页面和退出前也会保存。</p><button id="reopenUnit">重新复习这个单元</button></section></div></main>
 <dialog id="infoDialog"><h2>这个宇宙如何呈现</h2><p>地表与云层使用公开地球影像。星空、月球、火星、木星和土星用于营造宇宙场景；距离、大小经过构图调整，不表示当前真实星位。行星外观中包含程序示意纹理。</p><p>灰色陆地代表尚未学完，自然色代表已学完。今天的定位可以进入灰色省份学习。市／区是课程细分的学习站点，并不要求每个行政区对应一课。</p><p>过场是本版可体验样例，最终方式等你看过后再定。地图为学习用途，非测绘或导航依据。</p><button id="closeInfo">返回探索</button></dialog>
-<div id="message" role="alert" hidden></div><script src="curriculum.js"></script><script src="examples.js"></script><script src="geography.js"></script><script src="earth-app.js"></script><script type="module" src="globe.js"></script></body></html>
+<div id="message" role="alert" hidden></div><script src="curriculum.js"></script><script src="examples.js"></script><script src="geography.js"></script><script src="earth-app.js"></script><script src="map-explorer.js"></script><script type="module" src="globe.js"></script></body></html>

diff --git a/earth-app.js b/earth-app.js
@@ -12,7 +12,7 @@ function syncWorld(){window.dispatchEvent(new CustomEvent('atlas-progress',{deta
 function changed(){if(loading||current===null)return;dirty=true;editVersion++;$('saved').textContent='未保存';clearTimeout(saveTimer);saveTimer=setTimeout(()=>flush().catch(fail),650);}
 function flush(){clearTimeout(saveTimer);if(!dirty||current===null)return saveChain;const version=editVersion,payload={id:current,code:$('code').value,notes:$('notes').value,answer:$('answer').value,parts:[...parts],status:parts.length===4?'done':'learning'};saveChain=saveChain.catch(()=>{}).then(async()=>{payload.revision=entry(payload.id).revision;state=await window.atlas.save(payload);if(version===editVersion&&current===payload.id){dirty=false;$('saved').textContent='已保存';}syncWorld();});return saveChain;}
 window.flushAtlas=async()=>{await flush();if(dirty)await flush();if(dirty)throw Error('还有未保存的内容');return true;};
-async function view(name){await window.flushAtlas();for(const id of ['spaceView','atlasView','routeView','lessonView'])$(id).hidden=id!==name;document.body.dataset.view=name==='spaceView'?'space':'learning';$('spaceMenu').hidden=true;window.scrollTo(0,0);window.dispatchEvent(new CustomEvent('atlas-view',{detail:name}));}
+async function view(name){await window.flushAtlas();for(const id of ['spaceView','atlasView','routeView','lessonView','exploreView'])$(id).hidden=id!==name;document.body.dataset.view=name==='spaceView'?'space':'learning';$('spaceMenu').hidden=true;$('settingsPanel').hidden=true;$('planetInfo').hidden=true;window.scrollTo(0,0);window.dispatchEvent(new CustomEvent('atlas-view',{detail:name}));}
 function cityStops(p){
  const available=p.cities.filter(c=>c.center);if(available.length<=4)return available;
  // Spread the four learning destinations across the province to avoid overlapping city-center labels.
@@ -50,13 +50,13 @@ $('run').onclick=async()=>{const b=$('run');b.disabled=true;$('output').textCont
 $('code').onkeydown=e=>{if(e.key==='Tab'){e.preventDefault();e.target.setRangeText('    ',e.target.selectionStart,e.target.selectionEnd,'end');changed();}if(e.ctrlKey&&e.key==='Enter'&&!$('run').disabled){e.preventDefault();$('run').click();}};
 $('exportCode').onclick=async()=>{try{notify('草稿已导出：'+await window.atlas.exportDraft({id:current,code:$('code').value,notes:$('notes').value,answer:$('answer').value}));}catch(e){fail(e);}};
 $('clearOutput').onclick=()=>{$('output').textContent='还没有运行代码。';$('plots').replaceChildren();};
-$('menuToggle').onclick=()=>$('spaceMenu').hidden=!$('spaceMenu').hidden;
+$('menuToggle').onclick=()=>window.dispatchEvent(new CustomEvent('atlas-planet',{detail:'jupiter'}));
 $('china').onclick=()=>showChina().catch(fail);$('upMap').onclick=()=>showChina().catch(fail);$('fallbackMap').onclick=()=>showChina().catch(fail);$('routeTab').onclick=()=>showRoute().catch(fail);
 for(const id of ['backSpace','routeBack'])$(id).onclick=()=>view('spaceView').then(syncWorld).catch(fail);
 $('backMap').onclick=()=>current<=34?showProvince(current).catch(fail):showRoute().catch(fail);
 $('backup').onclick=async()=>{try{await flush();notify('备份已保存：'+await window.atlas.backup());}catch(e){fail(e);}};
 $('about').onclick=()=>{$('spaceMenu').hidden=true;$('infoDialog').showModal();};$('closeInfo').onclick=()=>$('infoDialog').close();
-window.addEventListener('keydown',e=>{if(e.ctrlKey&&e.key.toLowerCase()==='s'){e.preventDefault();flush().catch(fail);}if(e.key==='Escape'&&document.body.dataset.view==='space'&&document.body.dataset.flying!=='true')$('spaceMenu').hidden=!$('spaceMenu').hidden;});
-window.earthUI={showProvince,showChina,notify,nextId,entry,syncWorld};
+window.addEventListener('keydown',e=>{if(e.ctrlKey&&e.key.toLowerCase()==='s'){e.preventDefault();flush().catch(fail);}if(e.key==='Escape'){e.preventDefault();window.atlas.close().catch(fail);}if(e.key==='Tab'&&!e.defaultPrevented&&!e.target.matches('input,textarea,[contenteditable=true]')){e.preventDefault();window.dispatchEvent(new CustomEvent('atlas-planet',{detail:'jupiter'}));}if(e.key==='F2'){e.preventDefault();window.dispatchEvent(new CustomEvent('atlas-planet',{detail:'saturn'}));}if(e.key==='Home'&&!e.target.matches('input,textarea,[contenteditable=true]')){e.preventDefault();window.dispatchEvent(new CustomEvent('atlas-planet',{detail:'earth'}));}});
+window.earthUI={showProvince,showChina,showRoute,view,notify,nextId,entry,syncWorld,mapContext:()=>({province:$('upMap').hidden?null:current})};
 (async()=>{try{state=await window.atlas.load();syncWorld();}catch(e){$('sceneLoading').textContent='学习记录读取失败，请保留文件并联系修复。';notify(e.message);}})();
 })();

diff --git a/earth.css b/earth.css
@@ -4,4 +4,13 @@ body[data-view=space]{overflow:hidden}#spaceView{position:fixed;inset:0;padding:
 .space-brand,.space-caption{display:none}.space-menu{opacity:0;transition:opacity .2s}.space-menu:hover,.space-menu:focus-visible{opacity:1}#spaceMenu:not([hidden])~.space-menu{opacity:1}
 .task-pin{border:0;background:transparent;box-shadow:none;padding:5px;transform:translate(-50%,-100%)}.task-pin:hover{background:transparent;border:0}.pin-arrow{font-size:32px;text-shadow:0 0 12px #b9edff}#taskLabel{display:none;position:absolute;left:38px;top:0;white-space:nowrap;padding:9px 12px;background:#0b1725df;border-radius:5px}.task-pin:hover #taskLabel,.task-pin:focus-visible #taskLabel{display:block}
 .task-pin:active{transform:translate(-50%,-100%)}
+#exploreView{max-width:1500px}#geoWrap{height:calc(100dvh - 190px);min-height:380px;overflow:hidden}#geoMap{width:100%;height:100%;display:block}#geoHint{color:var(--muted);font-size:14px;text-align:center}
+.planet-panel,#spaceMenu{position:fixed;left:auto;right:5vw;top:12vh;width:min(560px,46vw);max-height:76vh;overflow:auto;padding:28px 32px;background:#091320ed;border:1px solid #b3d8ec40;border-radius:12px;z-index:8;box-shadow:0 24px 90px #0008;font-size:16px}
+.planet-panel h1{font-size:27px;margin:0 0 14px}.planet-panel p{line-height:1.8;color:#b6c9d9}.planet-panel table{width:100%;font-size:14px;line-height:1.6;border-collapse:collapse}.planet-panel td,.planet-panel th{padding:10px 8px;text-align:left;border-bottom:1px solid #ffffff18}.planet-panel button,#spaceMenu button{font-size:16px;padding:15px 18px;min-height:48px}#spaceMenu button{border-bottom:1px solid #ffffff12}
+#planetHover{position:fixed;pointer-events:none;background:#0b1725df;padding:9px 14px;border-radius:6px;z-index:4}
+#welcomeKeys{position:fixed;bottom:25px;left:50%;transform:translateX(-50%);padding:10px 18px;background:#091320b0;color:#bfd0df;font-size:13px;pointer-events:none;animation:hideHint 10s forwards;z-index:3;white-space:nowrap}
+@keyframes hideHint{0%,65%{opacity:1}100%{opacity:0;visibility:hidden}}
+#flightLabel{display:none!important}#flatMapWrap{overflow:hidden}#flatMap{transition:opacity .2s}#atlasView{animation:mapReveal .5s ease-out}
+@keyframes mapReveal{from{opacity:0;transform:scale(.97)}to{opacity:1;transform:scale(1)}}
+@media(max-width:900px){.planet-panel,#spaceMenu{right:3vw;width:65vw;padding:20px;top:8vh;max-height:84vh}}
 @media(prefers-reduced-motion:reduce){*{animation:none!important;transition:none!important}}

diff --git a/README.md b/README.md
@@ -1,4 +1,4 @@
-# Python Earth Atlas · Python世界地图
+# galaxy-earth · Python世界地图
 
 从宇宙中的地球出发，用探索地图的方式学习 Python 数据分析。Windows 桌面版，中文课程，本地运行代码和保存学习记录。
 
@@ -12,7 +12,11 @@
 
 计划共42个单元（36学习实操、6阶段测试）。中国的34个省级区域已接入；后8个单元的课程已准备，可通过完整路线学习，但周边地图仍待后续拓展。第一站是北京。
 
-把鼠标移到右上角或按 **Esc** 可唤出探索菜单。**Alt+F4** 退出应用；代码区 **Ctrl+Enter** 运行，**Tab** 缩进，**Ctrl+S** 保存。停笔后自动保存，切换页面和关闭窗口前也会保存。
+**Tab** 前往木星菜单，**F2** 前往土星设置，**Home** 返回地球，**Esc / Alt+F4** 保存后退出。代码区 **Ctrl+Enter** 运行、**Tab** 缩进、**Ctrl+S** 保存。输入文字时保留 Tab 和 Home 的编辑行为。设置页列出完整操作。停笔后自动保存，切换页面和关闭窗口前也会保存。
+
+太阳带有日面和光晕，为地球提供定向光照。星球点击可聚焦；星空使用不同亮度与密度的星点。天体距离与大小为构图调整，不是真实比例或实时星位。每日任务镜头连续推进，不显示阶段字幕。
+
+地图浏览不受学习完成状态限制。点击地球陆地进入所属洲，再点国家、省／州、市／区；滚轮放大深入、缩小返回。中国使用本地边界；其他国家首次通过 geoBoundaries gbOpen 获取 ADM1 / ADM2 并缓存到 D 盘 assets/boundary-cache。数据源缺失或联网失败会明确提示，不作为课程锁定。行政级别依各国制度而异，部分地区不具备市区级数据。世界国家轮廓来自 Natural Earth。
 
 ## 课程范围
 
@@ -50,7 +54,8 @@ pwsh -ExecutionPolicy Bypass -File .\准备桌面版.ps1
 ## 素材来源
 
 - [Three.js](https://github.com/mrdoob/three.js)，MIT；地球、云层、月球影像取自 r160 的 `examples/textures/planets`。见 `vendor/THREE-LICENSE.txt`。
-- [Natural Earth](https://www.naturalearthdata.com/about/terms-of-use/)，公共领域，海陆轮廓。
+- [Natural Earth](https://www.naturalearthdata.com/about/terms-of-use/)，公共领域，海陆与世界国家轮廓。
+- [geoBoundaries gbOpen](https://www.geoboundaries.org/)，国外行政区边界按各数据集的开放许可证提供；首次按需下载，缓存保留来源和许可名称。
 - [ChinaGeoJson](https://github.com/zhChuXiao/ChinaGeoJson)，MIT，省、市、区地理数据。见 `assets/geo-license.txt`。
 - [polygon-clipping](https://github.com/mfogel/polygon-clipping)，MIT，用于合并省内行政区轮廓。见 `vendor/POLYGON-CLIPPING-LICENSE.md`。
 - [Tabler Icons](https://github.com/tabler/tabler-icons)，MIT，桌面图标的 planet 图形。见 `assets/TABLER-LICENSE.txt`。
@@ -59,3 +64,5 @@ pwsh -ExecutionPolicy Bypass -File .\准备桌面版.ps1
 ## 验证
 
 `test-earth.cjs` 使用隐藏的独立测试窗口和独立数据目录，检查地球加载、亚洲过场、34省份、学习分站、自动保存、完成上色、42课程、Python/Pandas运行、图表与错误反馈。另验证过期版本不能覆盖答案。不会弹出测试窗口打断学习，也不改动 SQL 笔记本。
+
+`test-universe.cjs` 检查太阳、星球菜单、快捷键、无字幕连续过场、国外边界下载和安全退出。`test-wheel.cjs` 使用真实滚轮事件验证全景到市／区的完整往返，以及课程地图上的滚轮入口。全部测试窗口均隐藏。
